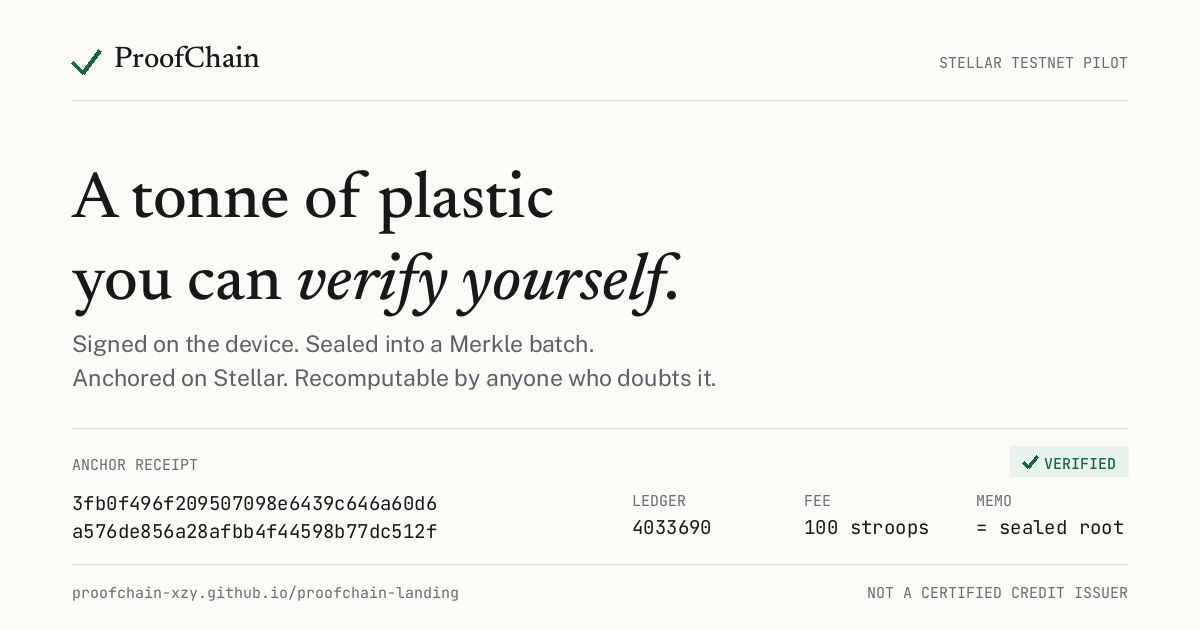
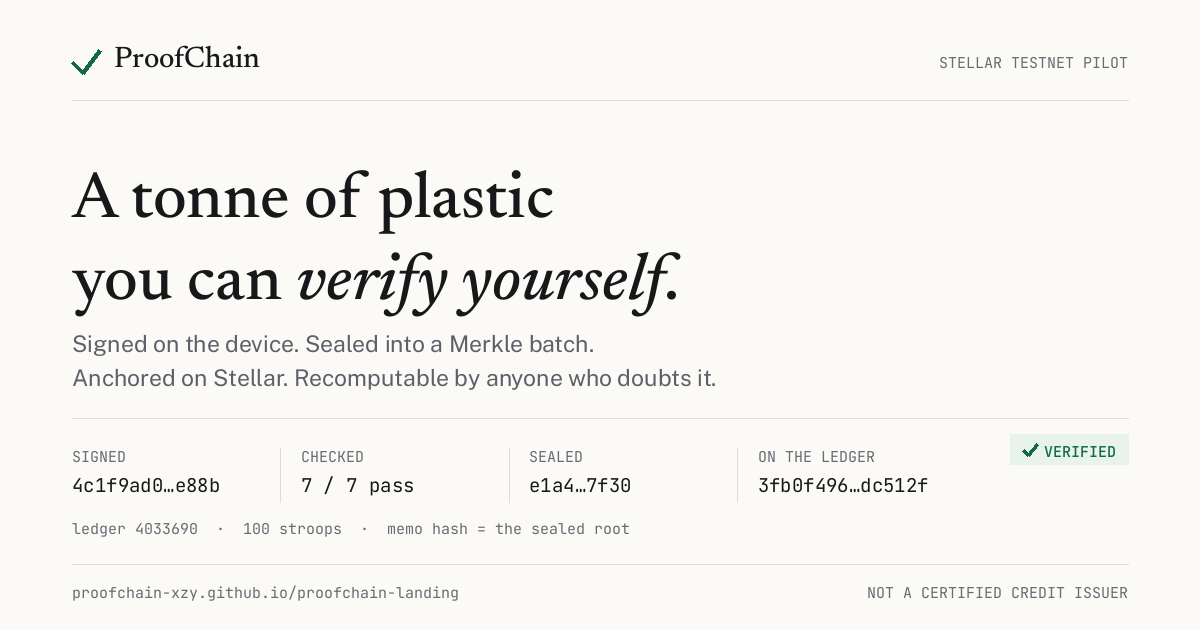
feat: rebuild the social card around the chain
The card still showed the old page: a headline and a receipt block. Now that
the chain of custody is the page's centrepiece, the preview and the thing it
links to should make the same argument in the same shape.

The separate receipt strip is gone rather than moved. The chain's final state
is the anchor, so printing the receipt underneath said it twice — and on a
630px canvas the second telling ran straight through the footer rule, which is
how the redundancy got noticed.

What survives from the receipt is the one line the chain cannot carry: ledger,
fee, and the fact that the memo hash equals the sealed root. The verified chip
rides the chain's rule at the right.

diff --git a/scripts/build-og.py b/scripts/build-og.py
@@ -96,6 +96,7 @@ def build() -> None:
     mono_label = load("mono", 15, 400)
     mono_value = load("mono", 19, 400)
     chip_face = load("mono", 15, 500)
+    mono_small = load("mono", 16, 400)
 
     # ── Masthead ────────────────────────────────────────────────────────
     tick = MARGIN
@@ -136,19 +137,19 @@ def build() -> None:
         fill=INK_SOFT,
     )
 
-    # ── Anchor receipt strip ────────────────────────────────────────────
-    strip = 428
-    rule(draw, strip)
-    draw.text((MARGIN, strip + 26), "ANCHOR RECEIPT", font=mono_label, fill=INK_FAINT)
+    # ── Chain of custody ────────────────────────────────────────────────
+    # Mirrors the four-state chain on the page, so the card and the page it
+    # links to make the same argument in the same shape. This replaces the
+    # separate receipt strip that used to sit here: the chain's final state is
+    # the anchor, and printing the receipt underneath said it a second time.
+    chain_y = 418
+    rule(draw, chain_y)
 
-    # Verified chip, right-aligned on the same baseline.
+    # Verified chip, riding the rule at the right.
     label = "VERIFIED"
     chip_w = int(draw.textlength(label, font=chip_face)) + 46
-    chip_x1, chip_y0, chip_h = WIDTH - MARGIN, strip + 18, 30
-    draw.rectangle(
-        [chip_x1 - chip_w, chip_y0, chip_x1, chip_y0 + chip_h],
-        fill=VERIFIED_BG,
-    )
+    chip_x1, chip_y0, chip_h = WIDTH - MARGIN, chain_y + 16, 30
+    draw.rectangle([chip_x1 - chip_w, chip_y0, chip_x1, chip_y0 + chip_h], fill=VERIFIED_BG)
     draw.line(
         [
             (chip_x1 - chip_w + 13, chip_y0 + 16),
@@ -160,17 +161,29 @@ def build() -> None:
     )
     draw.text((chip_x1 - chip_w + 34, chip_y0 + 7), label, font=chip_face, fill=VERIFIED)
 
-    # The hash is the evidence, so it gets the largest mono setting on the card
-    # and is split across two lines rather than truncated with an ellipsis.
-    draw.text((MARGIN, strip + 62), TX[:32], font=mono_value, fill=INK)
-    draw.text((MARGIN, strip + 90), TX[32:], font=mono_value, fill=INK)
+    states = [
+        ("SIGNED", "4c1f9ad0\u2026e88b"),
+        ("CHECKED", "7 / 7 pass"),
+        ("SEALED", "e1a4\u20267f30"),
+        ("ON THE LEDGER", TX[:8] + "\u2026" + TX[-6:]),
+    ]
+    # Four columns across the width the chip does not occupy.
+    column = (WIDTH - 2 * MARGIN - chip_w - 24) / len(states)
 
-    for index, (key, value) in enumerate(
-        [("LEDGER", LEDGER), ("FEE", "100 stroops"), ("MEMO", "= sealed root")]
-    ):
-        col = MARGIN + 560 + index * 172
-        draw.text((col, strip + 62), key, font=mono_label, fill=INK_FAINT)
-        draw.text((col, strip + 86), value, font=mono_value, fill=INK)
+    for index, (state, value) in enumerate(states):
+        x = MARGIN + index * column
+        if index:
+            # Hairline between states, matching the page's connectors.
+            draw.line([(x - 20, chain_y + 30), (x - 20, chain_y + 84)], fill=RULE, width=1)
+        draw.text((x, chain_y + 28), state, font=mono_label, fill=INK_FAINT)
+        draw.text((x, chain_y + 54), value, font=mono_value, fill=INK)
+
+    draw.text(
+        (MARGIN, chain_y + 100),
+        f"ledger {LEDGER}  \u00b7  100 stroops  \u00b7  memo hash = the sealed root",
+        font=mono_label,
+        fill=INK_FAINT,
+    )
 
     rule(draw, HEIGHT - 66)
     draw.text(
